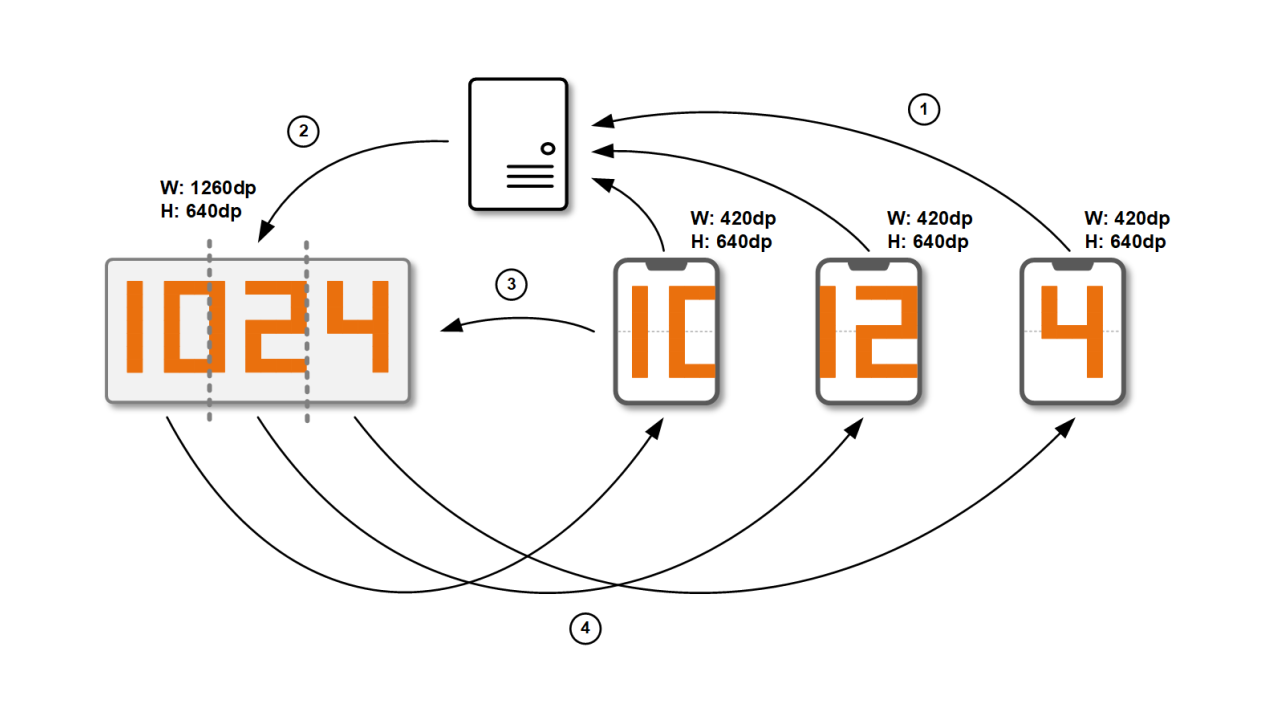
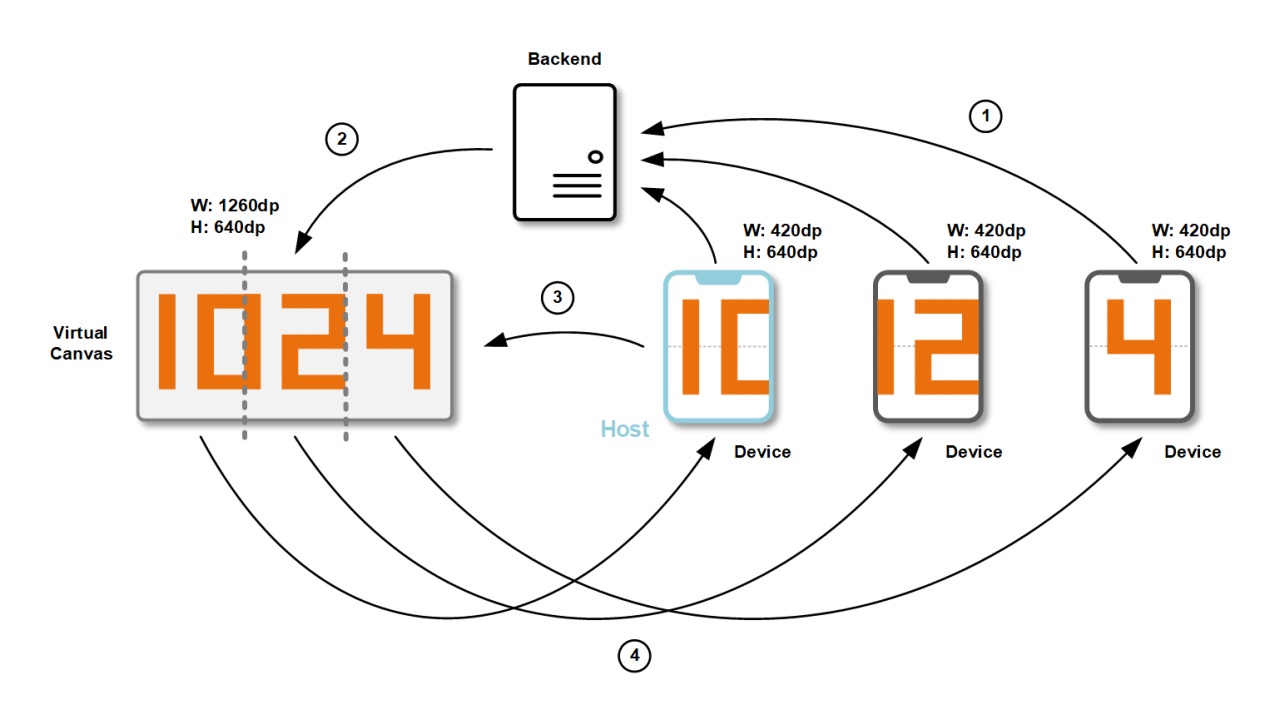
[client][android][DEV]: update assets; [client][android][DOC]: update README.md

diff --git a/README.md b/README.md
@@ -36,7 +36,7 @@ The backend and devices use WebSockets to communicate with each other. Communica
 - **Direction**: **Device** to **Backend**
 - **Description**:
 	
-	As soon as the device connects to the backend, it sends this command to the backend to report its display dimension. The **width** and **height** should be in **DP** format since the backend tries to make sure that the content displayed on different screen should in the same physical size.
+	As soon as the device connects to the backend, it sends this command to the backend to report its display dimension. The **width** and **height** should be in **DP** format as the backend tries to make sure that the content on the different screens should be kept in the same physical size.
 
 ###2. Update screen information
 
@@ -69,7 +69,7 @@ The backend and devices use WebSockets to communicate with each other. Communica
 
 ```json
 {
-	"cmdCode": "START_DRAWING"
+	"cmdCode": "START_DRAWING",
 	"sid": "ms-426",
 	"uuid": "1e062fbf-281a-4172-bb5a-d9a2ac168d82",
 }
@@ -77,4 +77,56 @@ The backend and devices use WebSockets to communicate with each other. Communica
 - **Direction**: **Device** to **Backend**
 - **Description**:
 	
-	The host device can send session controlling commands to the backend. **cmdCode** includes **START_DRAWING**, **PAUSE_DRAWING** and **STOP_DRAWING**. The difference between **PAUSE_DRAWING** and **STOP_DRAWING** is that session progress can be recovered after receiving **STOP_DRAWING** command.
+	The host device can send session controlling commands to the backend. **cmdCode** includes **START_DRAWING**, **PAUSE_DRAWING** and **STOP_DRAWING**. The difference between **PAUSE_DRAWING** and **STOP_DRAWING** is that session progress can't be recovered after receiving **STOP_DRAWING** command.
+	
+
+###4. Drawing
+
+- **Example**
+
+```json
+{
+	"cmdCode":"DRAW_POINT",
+	"sid":"ms-426",
+	"uuid":"1e062fbf-281a-4172-bb5a-d9a2ac168d82",
+	"point":[1,3]
+}
+```
+- **Direction**: **Backend** to **Device**
+- **Description**:
+	
+	After the backend receives a **START_DRAWING** command, it will broadcast a **DRAW_POINT** command to each device in the session every **100 milliseconds**. The devices are responsible for displaying that point on the screen, only if the point is located in its drawing area according to **drawingBoundInDp** from **UPDATE\_SCREEN\_INFO** command.
+	
+
+## Grids
+The virtual canvas is divided into a 24 x 11 grids. The character **1024** is represented to the user with combinations of occupied grids. 
+
+![Grids](.github/grids.png)
+
+Here is the matrix of characters **1024**:
+
+```json
+[
+    /* 1 */
+    [1, 1], [1, 2], [1, 3], [1, 4], [1, 5], [1, 6], [1, 7], [1, 8], [1, 9],
+
+    /* 0 */
+    [4, 1], [4, 2], [4, 3], [4, 4], [4, 5], [4, 6], [4, 7], [4, 8], [4, 9], 
+    [5, 1], [6, 1], [7, 1], [8, 1],
+    [8, 2], [8, 3], [8, 4], [8, 5], [8, 6], [8, 7], [8, 8], [8, 9],
+    [5, 9], [6, 9], [7, 9],
+
+    /* 2 */
+    [11, 1], [12, 1], [13, 1], [14, 1], [15, 1],
+    [15, 2], [15, 3], [15, 4], [15, 5],
+    [14, 5], [13, 5], [12, 5], [11, 5],
+    [11, 6], [11, 7], [11, 8], [11, 9],
+    [12, 9], [13, 9], [14, 9], [15, 9],
+
+    /* 4 */
+    [18, 1], [18, 2], [18, 3], [18, 4], [18, 5],
+    [19, 5], [20, 5], [21, 5], [22, 5],
+    [22, 1], [22, 2], [22, 3], [22, 4], [22, 6], [22, 7], [22, 8], [22, 9],
+]
+```
+The position of the point in this array reflects its drawing order in sessions. If you change positions of points, the character might be displayed in a slightly stranger way than you write it naturally.
